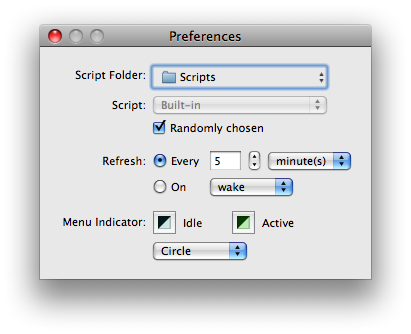
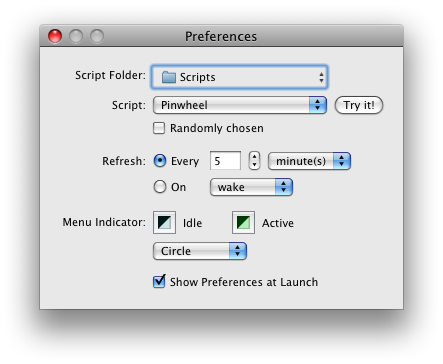
Updated images and documentation to match friendlier startup.

Changed region(s): [[0.0876, 0.0599, 0.9343, 0.8683]]

diff --git a/trunk/Documentation/TopDrawViewer.html b/trunk/Documentation/TopDrawViewer.html
@@ -9,9 +9,11 @@
 Top Draw Viewer is the companion program to the <a href="TopDraw.html">Top Draw</a>.
 Both programs will evaluate a JavaScript based script to create an image
 that can be set as the Desktop Picture.  Scripts can be downloaded or created and placed
-in a common folder on your computer (typically ~/Library/Application Support/Google/TopDraw).
-Several example scripts are included with the application and automatically installed
-into that folder.
+in a common folder on your computer.  Several example scripts are included with the application and automatically installed into:
+<pre>
+~/Library/Application Support/Google/TopDraw/Scripts
+</pre>
+
 <p>
 The application runs as a Status Item, which means that there is no front window
 or icon in the dock.  Instead, there will be a colored shape in the menu bar to indicate the
@@ -43,7 +45,7 @@ choose another item from the popup menu list.</td>
 <td class="MenuItem" style="color: gray;">Render...</td>
 <td class="Menu">The name of the currently
 active script and the remaining time until it is rendered is listed.  In this example,
-the script "Pinwheel" will be rendered and installed as your desktop in about 1 minute and 10 seconds.</td>
+the script "Pattern" will be rendered and installed as your desktop in about 4 minutes and 36 seconds.</td>
 </tr>
 
 <tr>
@@ -54,6 +56,10 @@ the script "Pinwheel" will be rendered and installed as your desktop in about 1 
 <tr>
 <td class="MenuItem">Launch Top Draw</td>
 <td class="Menu">Open the Top Draw application.</td>
+</tr>
+<tr>
+<td class="MenuItem">Help with Top Draw Viewer</td>
+<td class="Menu">This documentation.</td>
 </tr>
 
 <tr>
@@ -89,7 +95,7 @@ to be used by Top Draw when rendering Desktop images.  Only files ending in .tds
 
 <tr>
 <td class="PreferenceItem">Script</td>
-<td class="Preferences">The chosen script to render.  If you've selected the "Randomly chosen" checkbox, one of the scripts contained in your Script Folder will be chosen at random for each rendering.  Also, the Script menu will be disabled.
+<td class="Preferences">The chosen script to render.  If you've selected the "Randomly chosen" checkbox, one of the scripts contained in your Script Folder will be chosen at random for each rendering.  Also, the Script menu will be disabled.  Clicking on the "Try it!" button to cause the currently selected (or a random one if configured) script to render.
 </td>
 </tr>
 
@@ -113,7 +119,11 @@ when idle or actively rendering a desktop.  You may also choose a pleasing geome
 <h1>Top Draw Scripts</h1>
 Top Draw reads Top Draw Script (.tds) files and renders them into images which are installed on your desktop.  The Top Draw application
 contains a ZIP archive of several example script files.  When the program is first launched, it will extract and copy the scripts
-into ~/Library/Application Support/Google/TopDraw/Scripts.
+into 
+<pre>
+~/Library/Application Support/Google/TopDraw/Scripts
+</pre>
+
 <p>
 If you're not interested in programming, you can visit the Top Draw project <a href="http://code.google.com/p/topdraw/wiki/Gallery">Wiki Gallery</a> site and download new script files.  You can then copy those files into the Script Folder that you've configured Top Draw to use.  If you open the Preferences window, the new script(s) will be available for your selection.
 <p>

diff --git a/trunk/Documentation/TopDraw.html b/trunk/Documentation/TopDraw.html
@@ -146,6 +146,12 @@ and opens up the System Preferences Screen Savers preference pane.
 </td>
 </tr>
 
+<tr>
+<td class="MenuItem">Show Welcome Dialog at Launch</td>
+<td class="Menu">Constrols if there is a Welcome Dialog at launch time.
+</td>
+</tr>
+
 </table>
 </div>
 
